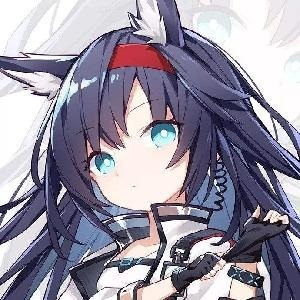
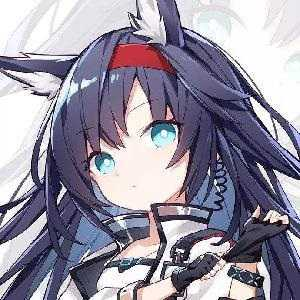
update

diff --git a/index.html b/index.html
@@ -883,7 +883,7 @@
 <div class="headpicPanel">
     <div>
         <center>
-            <div class="headpic" style="background-image: url('img/headpic/Ran-ying.png');"></div><br />
+            <div class="headpic" style="background-image: url('img/headpic/Ran-ying.jpg');"></div><br />
             <a href="https://github.com/Ran-ying">染樱 (Ran-ying)</a>
         </center>
         <span>很惭愧，只做了一点微小的工作。</span>
